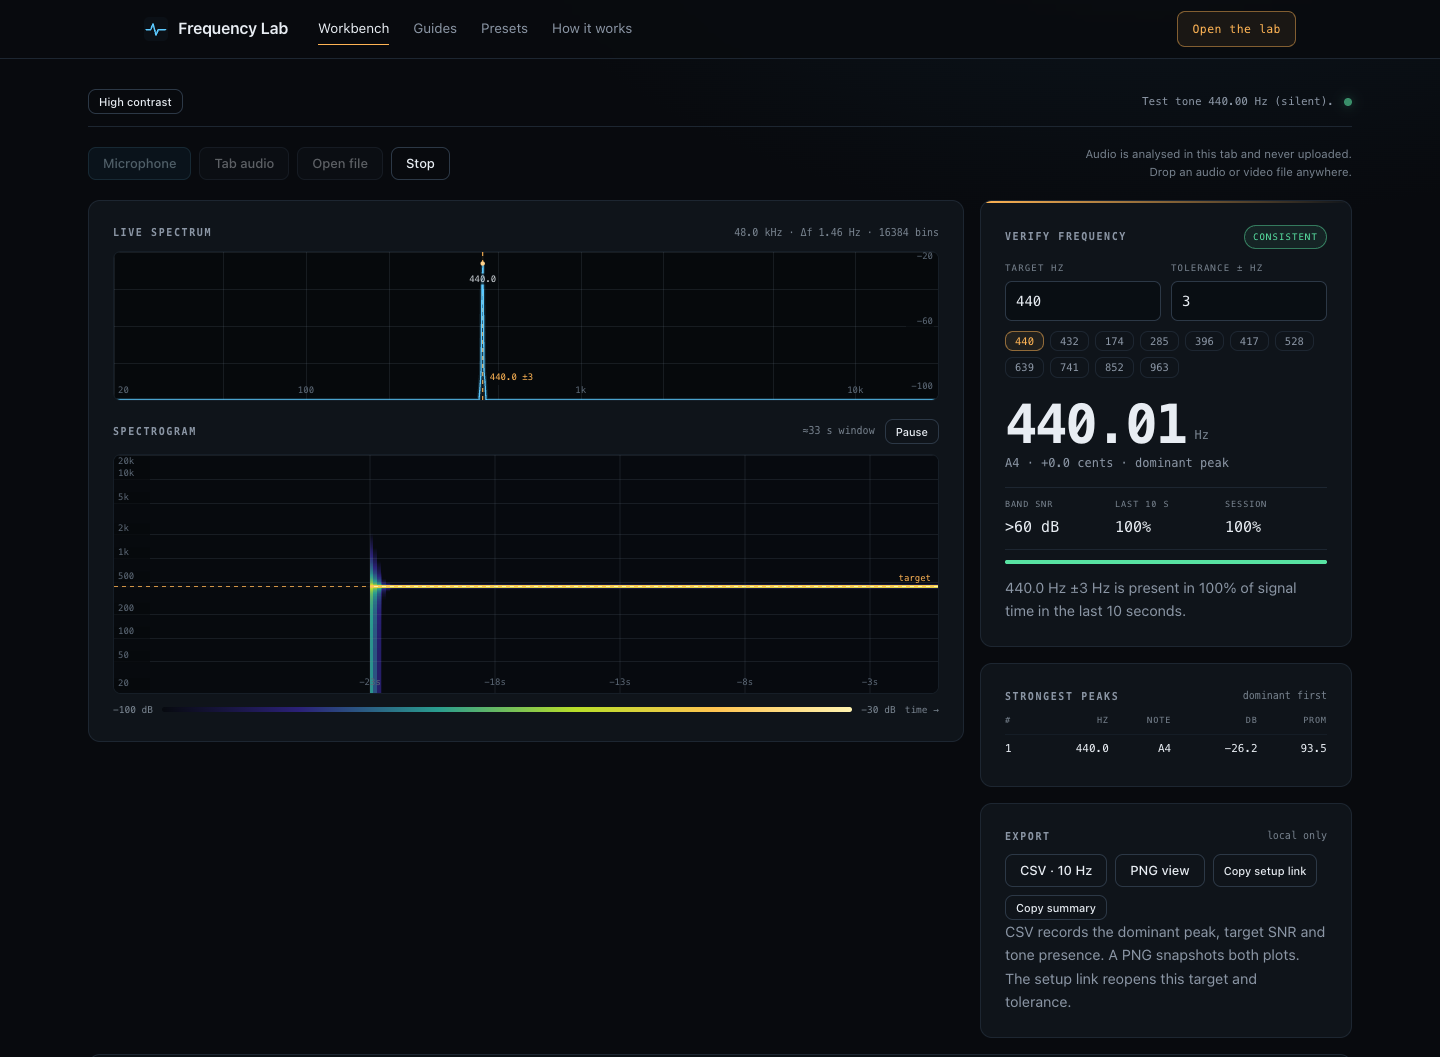
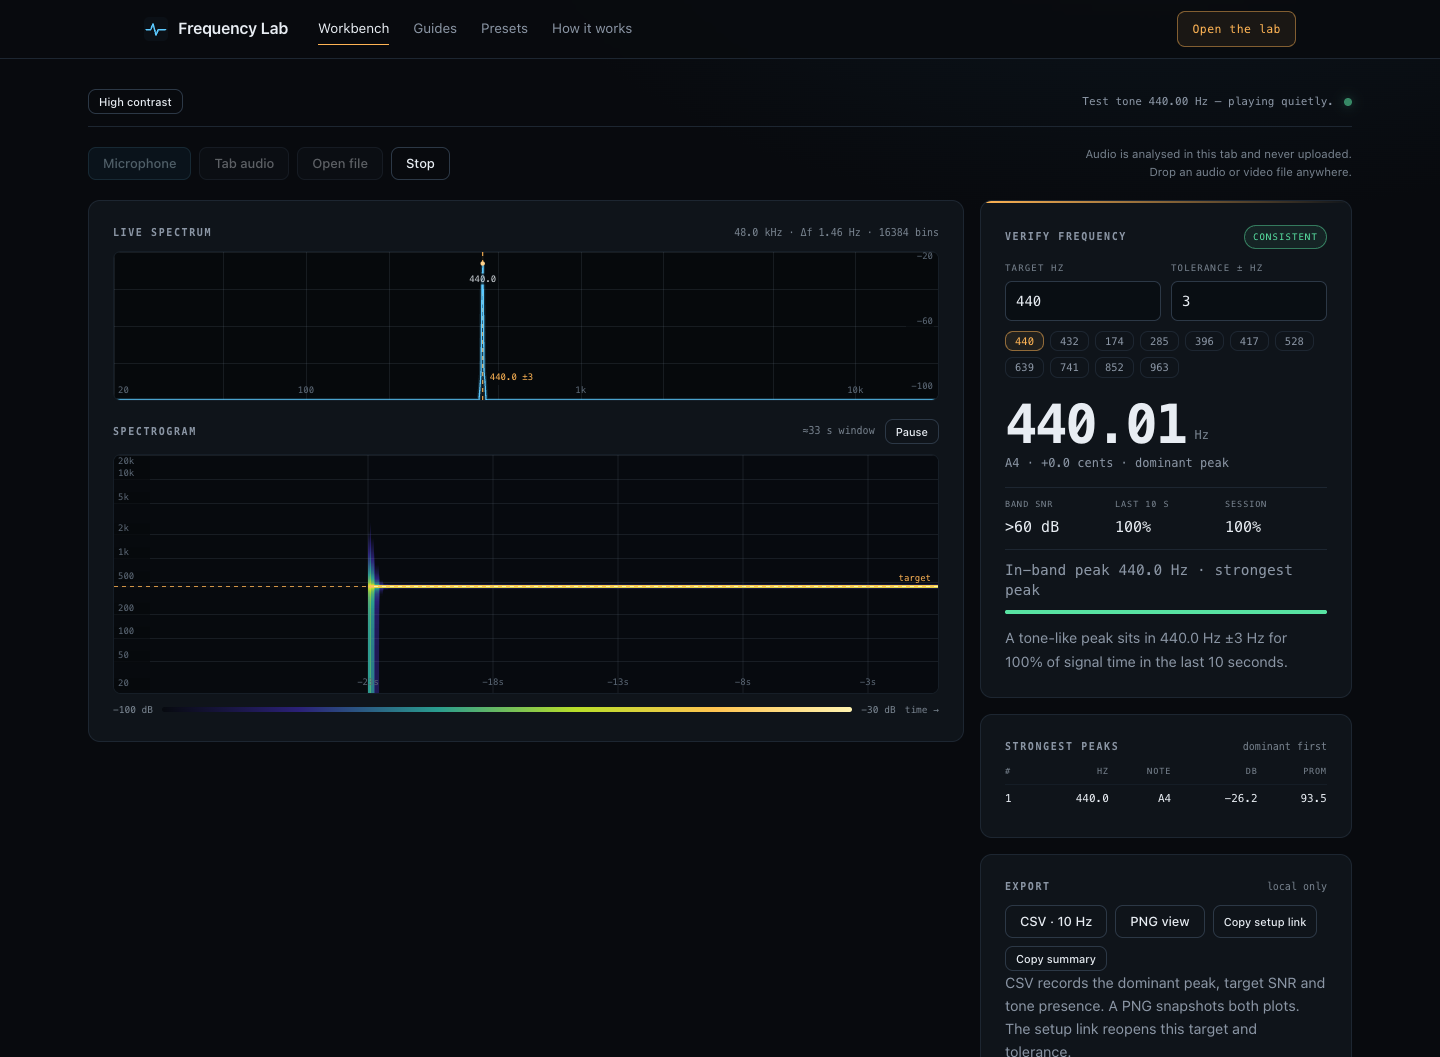
Fix the inaudible test tone and clarify target evidence
- The diagnostics tone and self-test were routed at gain 0, so they were
  measured but never audible. Play the oscillator quietly instead and stop
  labelling it silent.
- The verification card now reports the in-band peak, how far it sits below
  the strongest peak, and the dominant frequency. Reword the verdict to
  "tone-like peak" so presence is not mistaken for dominance.
- Add an in-band/dominance unit test and a three-tone browser fixture, plus
  the matching methodology note.

diff --git a/src/app/main.ts b/src/app/main.ts
@@ -161,6 +161,7 @@ function resetReadout() {
   els.snr.textContent = '—';
   els.pct10.textContent = '—';
   els.pctAll.textContent = '—';
+  els.targetMeta.textContent = '';
   els.snrBar.style.width = '0%';
   els.snrBar.style.background = 'var(--trace)';
   els.peakRows.replaceChildren();
@@ -236,6 +237,16 @@ function updateReadouts() {
   els.pct10.textContent = formatPercent(windowSummary.percent);
   els.pctAll.textContent = formatPercent(sessionPercent);
 
+  if (evidence && evidence.valid && Number.isFinite(evidence.peakHz) && state.peaks.length) {
+    const dominant = state.peaks[0];
+    const same = Math.abs(dominant.hz - evidence.peakHz) < 0.75;
+    els.targetMeta.textContent = same
+      ? `In-band peak ${evidence.peakHz.toFixed(1)} Hz · strongest peak`
+      : `In-band peak ${evidence.peakHz.toFixed(1)} Hz · ${(dominant.db - (evidence.peakDb ?? dominant.db)).toFixed(0)} dB below the strongest peak (${dominant.hz.toFixed(1)} Hz)`;
+  } else {
+    els.targetMeta.textContent = '';
+  }
+
   if (!state.targetValid) {
     setVerdict('set target', 'warn');
     const maxTarget = state.ctx
@@ -262,14 +273,14 @@ function updateReadouts() {
     els.verdictText.textContent = `Collecting evidence for ${targetLabel} — about a second of signal is needed.`;
   } else if (verdict === 'consistent') {
     setVerdict('consistent', 'pass');
-    els.verdictText.textContent = `${targetLabel} is present in ${formatPercent(windowSummary.percent)} of signal time in the last 10 seconds.`;
+    els.verdictText.textContent = `A tone-like peak sits in ${targetLabel} for ${formatPercent(windowSummary.percent)} of signal time in the last 10 seconds.`;
   } else if (verdict === 'intermittent') {
     setVerdict('intermittent', 'warn');
-    els.verdictText.textContent = `${targetLabel} appears intermittently: ${formatPercent(windowSummary.percent)} of signal time in the last 10 seconds.`;
+    els.verdictText.textContent = `A tone-like peak appears intermittently in ${targetLabel}: ${formatPercent(windowSummary.percent)} of signal time in the last 10 seconds.`;
   } else {
     setVerdict('not detected', 'fail');
     const snrText = evidence ? ` Band energy is ${formatSnr(evidence.snrDb)} over the floor.` : '';
-    els.verdictText.textContent = `${targetLabel} is not present in the last 10 seconds.${snrText}`;
+    els.verdictText.textContent = `No tone-like peak in ${targetLabel} over the last 10 seconds.${snrText}`;
   }
 }
 
@@ -1197,7 +1208,7 @@ async function startTone(frequency) {
   const seq = state.seq;
   setStatus(`Starting ${tone.toFixed(1)} Hz test tone…`);
   try {
-    const ok = await boot(seq, { mode: 'test', toneFreq: tone, gain: 0 });
+    const ok = await boot(seq, { mode: 'test', toneFreq: tone, gain: 0.2 });
     if (!ok) return false;
   } catch (error) {
     if (seq === state.seq) {
@@ -1206,7 +1217,7 @@ async function startTone(frequency) {
     }
     return false;
   }
-  setStatus(`Test tone ${tone.toFixed(2)} Hz (silent).`);
+  setStatus(`Test tone ${tone.toFixed(2)} Hz — playing quietly.`);
   return true;
 }
 

diff --git a/e2e/app.spec.ts b/e2e/app.spec.ts
@@ -1,7 +1,7 @@
 import path from 'node:path';
 import { mkdirSync, writeFileSync } from 'node:fs';
 import { expect, test } from '@playwright/test';
-import { writeToneWav } from './audio';
+import { writeMixWav, writeToneWav } from './audio';
 import { canvasHasInk, selfTest, startDemo, watchErrors } from './helpers';
 
 const TMP = path.resolve('.tmp');
@@ -77,6 +77,49 @@ test.describe('workbench', () => {
     await expect(page.locator('#pauseBtn')).toHaveText('Pause');
     await page.keyboard.press('s');
     await expect(page.locator('#status')).toContainText('Stopped');
+  });
+
+  test('the diagnostics test tone is audible', async ({ page }) => {
+    await page.goto('/app/');
+    await page.evaluate(() => (document.getElementById('toneBtn') as HTMLButtonElement).click());
+    await page.waitForFunction(() => window.__freqLab.state.running, null, { timeout: 15_000 });
+    const gain = await page.evaluate(() => window.__freqLab.state.outGain?.gain.value ?? 0);
+    expect(gain).toBeGreaterThan(0.05);
+    await expect(page.locator('#status')).toContainText('playing quietly');
+    await page.locator('#stopBtn').click();
+  });
+
+  test('the target card separates presence from dominance', async ({ page }) => {
+    const wav = path.join(TMP, 'mix-963-639-396.wav');
+    writeMixWav(
+      wav,
+      [
+        { hz: 963.5, amp: 0.34 },
+        { hz: 639.9, amp: 0.17 },
+        { hz: 396.3, amp: 0.05 },
+      ],
+      5
+    );
+    await page.goto('/app/?t=396&tol=3');
+    await page.setInputFiles('#fileInput', wav);
+    await page.waitForFunction(() => window.__freqLab.state.displayHz != null, null, {
+      timeout: 20_000,
+    });
+    await page.waitForFunction(
+      () => {
+        const meta = document.getElementById('targetMeta')?.textContent || '';
+        return meta.includes('396') && meta.includes('below the strongest peak');
+      },
+      null,
+      { timeout: 20_000 }
+    );
+    const meta = (await page.locator('#targetMeta').textContent()) || '';
+    expect(meta).toContain('396');
+    expect(meta).toMatch(/9[0-9]{2}\.[0-9]/);
+    await expect(page.locator('#verdictText')).toContainText('tone-like peak');
+    const dominant = Number.parseFloat((await page.locator('#freq').textContent()) || '0');
+    expect(dominant).toBeGreaterThan(900);
+    await page.locator('#stopBtn').click();
   });
 
   test('microphone path measures the fake 440 Hz device', async ({ page }) => {

diff --git a/e2e/audio.ts b/e2e/audio.ts
@@ -44,3 +44,41 @@ export function writeToneWav(filePath: string, options: WavOptions = {}): string
   writeFileSync(filePath, buffer);
   return filePath;
 }
+
+/** Mix several sines into one mono WAV, for dominance tests. */
+export function writeMixWav(
+  filePath: string,
+  tones: Array<{ hz: number; amp: number }>,
+  seconds = 4,
+  sampleRate = 48000
+): string {
+  const sampleCount = Math.floor(seconds * sampleRate);
+  const dataSize = sampleCount * 2;
+  const buffer = Buffer.alloc(44 + dataSize);
+
+  buffer.write('RIFF', 0, 'ascii');
+  buffer.writeUInt32LE(36 + dataSize, 4);
+  buffer.write('WAVE', 8, 'ascii');
+  buffer.write('fmt ', 12, 'ascii');
+  buffer.writeUInt32LE(16, 16);
+  buffer.writeUInt16LE(1, 20);
+  buffer.writeUInt16LE(1, 22);
+  buffer.writeUInt32LE(sampleRate, 24);
+  buffer.writeUInt32LE(sampleRate * 2, 28);
+  buffer.writeUInt16LE(2, 32);
+  buffer.writeUInt16LE(16, 34);
+  buffer.write('data', 36, 'ascii');
+  buffer.writeUInt32LE(dataSize, 40);
+
+  for (let i = 0; i < sampleCount; i++) {
+    let value = 0;
+    for (const tone of tones) {
+      value += Math.sin((2 * Math.PI * tone.hz * i) / sampleRate) * tone.amp;
+    }
+    const sample = Math.max(-1, Math.min(1, value));
+    buffer.writeInt16LE(Math.round(sample * 32767), 44 + i * 2);
+  }
+
+  writeFileSync(filePath, buffer);
+  return filePath;
+}

diff --git a/test/dsp.test.ts b/test/dsp.test.ts
@@ -1,4 +1,4 @@
-import { test } from 'vitest';
+import { expect, test } from 'vitest';
 import { FreqLabDSP as DSP } from '../src/dsp/core';
 
 let passes = 0;
@@ -295,4 +295,34 @@ test('verdictFor thresholds', () => {
   equal(DSP.verdictFor(5, 40), 'not-detected');
   equal(DSP.verdictFor(null, 0), 'no-signal');
   equal(DSP.verdictFor(100, 4), 'collecting');
+});
+
+test('a quiet target is present while another peak dominates', () => {
+  const sr = 48000;
+  const fft = 32768;
+  const binHz = sr / fft;
+  const db = new Float32Array(fft / 2).fill(-100);
+  const paint = (hz: number, level: number) => {
+    const bin = Math.round(hz / binHz);
+    db[bin - 1] = level - 12;
+    db[bin] = level;
+    db[bin + 1] = level - 12;
+  };
+  paint(963.5, -30);
+  paint(639.9, -50);
+  paint(396.3, -70);
+
+  const peaks = DSP.pickPeaks(db, { sampleRate: sr, fftSize: fft, floorDb: -100 });
+  expect(peaks[0].hz).toBeCloseTo(963.5, 0);
+
+  const evidence = DSP.targetEvidence(db, {
+    sampleRate: sr,
+    fftSize: fft,
+    targetHz: 396,
+    tolHz: 3,
+    floorDb: -100,
+  });
+  expect(evidence.valid).toBe(true);
+  expect(evidence.tonePresent).toBe(true);
+  expect(peaks[0].db - (evidence.peakDb ?? 0)).toBeGreaterThan(30);
 });

diff --git a/src/app/view.html b/src/app/view.html
@@ -88,6 +88,7 @@
           <div class="metric"><span>Session</span><strong id="pctAll">—</strong></div>
         </div>
 
+        <p class="target-meta" id="targetMeta"></p>
         <div class="bar" aria-hidden="true"><div id="snrBar"></div></div>
         <p class="verdict-text" id="verdictText">Start a source, then check whether its energy actually sits at the target frequency.</p>
       </section>
@@ -129,7 +130,7 @@
       </label>
       <button id="toneBtn" class="small" type="button">Start tone</button>
       <button id="selfTestBtn" class="small" type="button">Run self-test</button>
-      <span class="diag-note" id="diagMeta">The self-test uses an internal oscillator; no microphone permission needed.</span>
+      <span class="diag-note" id="diagMeta">The self-test plays short audible tones from an internal oscillator; no microphone permission needed.</span>
       <span class="shortcuts">Keys: <kbd>P</kbd> pause · <kbd>S</kbd> stop · <kbd>E</kbd> export CSV</span>
       <div class="test-result" id="selfTestOut"></div>
     </div>

diff --git a/how-it-works/index.html b/how-it-works/index.html
@@ -44,6 +44,7 @@
       <li>A frame counts as <em>tone present</em> when band SNR ≥ 6 dB <em>and</em> prominence ≥ 6 dB.</li>
     </ul>
     <p>Frames are grouped into 100 ms buckets. A bucket counts as present when at least half of its signal frames detect a tone. The percentages ignore silent buckets, so they answer “when there was signal, how often was the target there?” — not “how often was there sound?”.</p>
+    <p>Presence is not dominance. The target can be a quiet layer under a much louder peak — the card reports the strongest peak separately, plus how far the in-band target peak sits below it. A green verdict means the target exists, not that it is the loudest thing in the audio.</p>
     <p>The verdict uses the session percentage: 80% or more is <strong>consistent</strong>, 20–80% is <strong>intermittent</strong>, below 20% is <strong>not detected</strong>. With fewer than ten signal buckets it reports <strong>collecting</strong> instead of guessing.</p>
 
     <h2>The signal gate</h2>

diff --git a/src/styles/app.css b/src/styles/app.css
@@ -232,6 +232,11 @@
     font-family: var(--mono); font-size: 15px; font-weight: 500;
     font-variant-numeric: tabular-nums; color: var(--ink);
   }
+  .target-meta {
+    margin: 0 0 8px; min-height: 14px; color: var(--faint);
+    font-family: var(--mono); font-size: 10px; line-height: 1.4;
+  }
+  .target-meta:empty { display: none; }
   .bar { height: 4px; border-radius: 2px; background: #131a22; overflow: hidden; margin: 10px 0 12px; }
   .bar > div { height: 100%; width: 0%; background: var(--trace); transition: width .15s linear, background .2s ease; }
   .verdict-text {

diff --git a/src/app/dom.ts b/src/app/dom.ts
@@ -31,6 +31,7 @@ export const els = {
   pctAll: $('pctAll'),
   snrBar: $('snrBar'),
   verdictText: $('verdictText'),
+  targetMeta: $('targetMeta'),
   peakRows: $('peakRows'),
   exportCsv: $<HTMLButtonElement>('exportCsv'),
   exportPng: $<HTMLButtonElement>('exportPng'),
